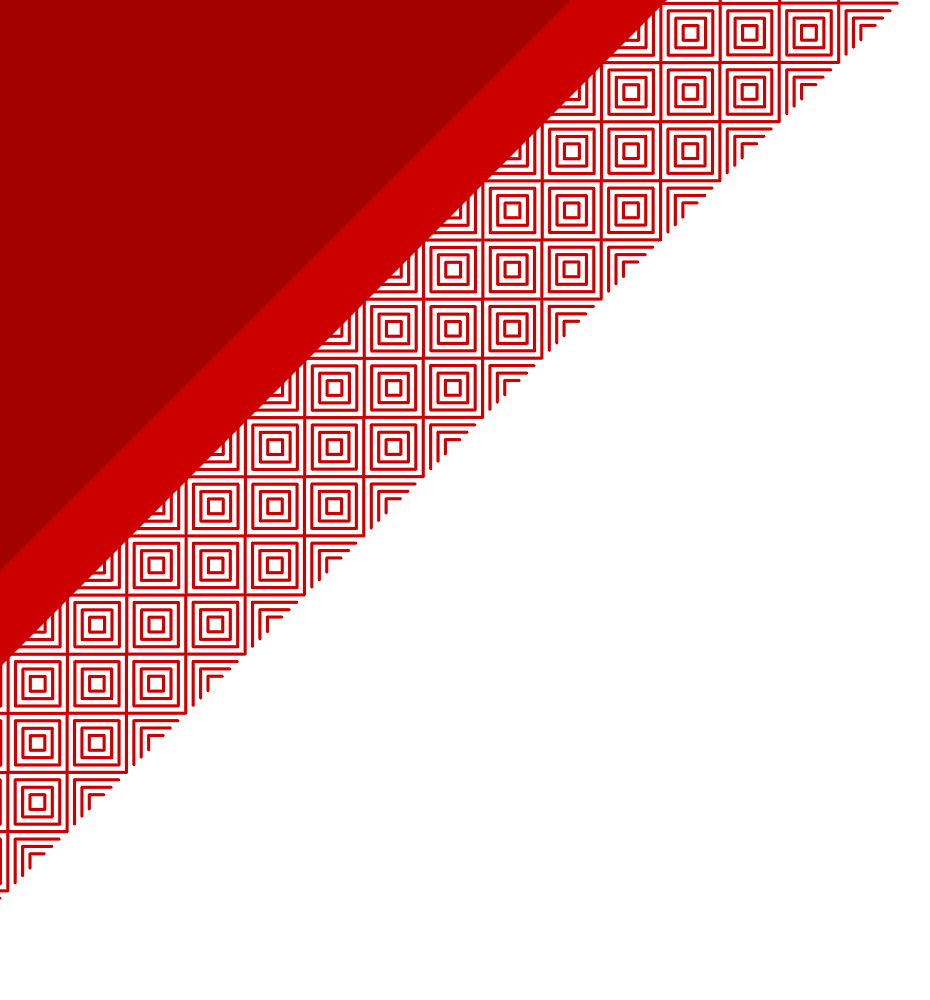
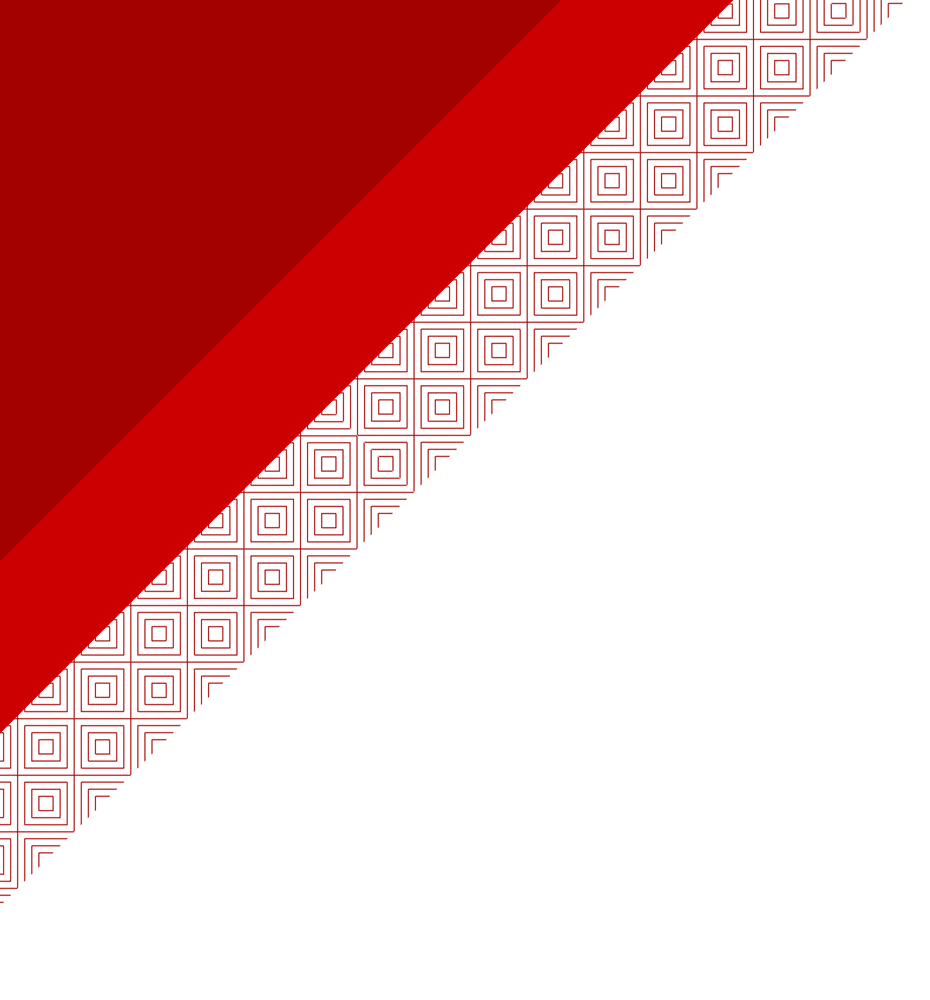
changes header and image

diff --git a/css/styles.css b/css/styles.css
@@ -10843,7 +10843,7 @@ form .togglebutton label {
 }
 form input[type="text"],
 form input[type="number"] {
-  border-bottom-color: rgba(0, 0, 0, 0.12) !important;
+  border-bottom-color: rgba(0, 0, 0, 0.2) !important;
 }
 .loader {
   background: rgba(0, 0, 0, 0.5);
@@ -10860,6 +10860,7 @@ body {
   margin-top: 76px;
   font-weight: 400;
   color: rgba(0, 0, 0, 0.87);
+  background: #fbf9f5;
 }
 body.welcome {
   text-align: center;
@@ -10965,57 +10966,65 @@ h5 {
   margin: 0 16px;
   padding-bottom: 40px;
 }
-.appheader {
+/*
+.appheader{
   margin: -20px -16px 0 -16px;
   padding: 19px 16px 0 72px;
   min-height: 185px;
   position: relative;
   background: url(../imgs/location_pointer.png) no-repeat 16px 100px;
   background-size: 40px 55px;
-  border-bottom: 1px solid #cc0000;
+  border-bottom: 1px solid @brand-primary;
+  .distance{
+    margin: 0 0 0 0;
+    font-size: 112px;
+    height: 112px;
+//    background: red;
+//    padding-top: 19px;
+    span{
+      font-size: 34px;
+    }
+  }
+  .location{
+    margin: 0px 0 0 0;
+    font-size: 24px;
+    height: 24px;
+    color: @gray-subtitle;
+    font-weight: @font-weight-regular;
+//    background: yellow;
+  }
+
 }
-.appheader .distance {
-  margin: 0 0 0 0;
-  font-size: 112px;
-  height: 112px;
+
+
+.map{
+    position: absolute;
+    top: 0;
+    left: 0;
+    right: 0;
+    bottom: 0;  
+    z-index: -2;
+    iframe{
+      width: 100%;
+      height: 100%;
+    }
+    background: url(../imgs/map.png) no-repeat 0 0;
+    background-size: cover;
 }
-.appheader .distance span {
-  font-size: 34px;
-}
-.appheader .location {
-  margin: 0px 0 0 0;
-  font-size: 24px;
-  height: 24px;
-  color: rgba(0, 0, 0, 0.54);
-  font-weight: 400;
-}
-.map {
-  position: absolute;
-  top: 0;
-  left: 0;
-  right: 0;
-  bottom: 0;
-  z-index: -2;
-  background: url(../imgs/map.png) no-repeat 0 0;
-  background-size: cover;
-}
-.map iframe {
-  width: 100%;
-  height: 100%;
-}
+*/
 .activity-log {
   position: relative;
   margin: 20px 0;
 }
 .activity-log:before {
   content: ".";
-  background: rgba(0, 0, 0, 0.12);
+  background: rgba(0, 0, 0, 0.2);
   position: absolute;
   left: 20px;
   width: 1px;
-  top: 25px;
+  top: 132px;
   bottom: 65px;
-  z-index: -1;
+  z-index: 3;
   text-indent: -999999px;
 }
 .log-entry {
@@ -11039,6 +11048,8 @@ h5 {
   border-radius: 22px;
   border: 2px solid #fff;
   margin-left: -2px;
+  z-index: 4;
+  position: relative;
 }
 .log-entry .log-entry-desc {
   margin-left: 56px;
@@ -11051,6 +11062,54 @@ h5 {
 .log-entry .log-entry-desc p {
   color: rgba(0, 0, 0, 0.54);
   margin: 0;
+}
+.log-entry.header {
+  background: url(../imgs/header-bg.png) no-repeat center top;
+  background-size: cover;
+  margin: -20px -16px 20px -16px;
+  padding: 90px 16px 16px 16px;
+  color: #ffffff;
+  position: relative;
+}
+.log-entry.header .entry-title {
+  line-height: 44px;
+  font-size: 24px;
+}
+.log-entry.header .log-entry-icon {
+  border: none;
+  margin-left: 0;
+  border-radius: 20px;
+  width: 40px;
+  background: #ffffff;
+  color: #cc0000;
+}
+.log-entry.header:before {
+  background: url(../imgs/header-pattern.png) no-repeat left top;
+  background-size: 300px 300px;
+  content: ".";
+  text-indent: -9999px;
+  position: absolute;
+  top: 0;
+  left: 0;
+  right: 0;
+  bottom: 0;
+  z-index: 1;
+  width: 100%;
+  height: 150px;
+}
+.log-entry.header:after {
+  background: url(../imgs/header-pattern.png) no-repeat right bottom;
+  background-size: 300px 300px;
+  content: ".";
+  text-indent: -9999px;
+  position: absolute;
+  top: 0;
+  left: 0;
+  right: 0;
+  bottom: 0;
+  z-index: 1;
+  width: 100%;
+  height: 155px;
 }
 .navigation-drawer {
   background: #fff;

diff --git a/less/styles.less b/less/styles.less
@@ -85,7 +85,7 @@
 @primary: @primary-color;
 
 
-@gray-divider:                  rgba(0,0,0,.12);//12
+@gray-divider:                  rgba(0,0,0,.2);//12
 @gray-subtitle:                 rgba(0,0,0,.54);//54
 @gray-text:                     rgba(0,0,0,.87);//87
 
@@ -154,6 +154,7 @@ body{
   margin-top: 76px;
   font-weight: @font-weight-regular;
   color: @gray-text;
+  background: #fbf9f5;
   &.welcome{
 //    margin: 0 16px;
     text-align: center;
@@ -219,6 +220,7 @@ strong{
 
 //App bar ==================================================================
 
+
 header{
   background: @primary-color;
   max-height: 56px;
@@ -280,6 +282,7 @@ h5{
 
 //header ================================================================
 
+/*
 .appheader{
   margin: -20px -16px 0 -16px;
   padding: 19px 16px 0 72px;
@@ -324,7 +327,7 @@ h5{
     background: url(../imgs/map.png) no-repeat 0 0;
     background-size: cover;
 }
-
+*/
 
 //activity-log ==================================================================
 
@@ -338,16 +341,18 @@ h5{
     position: absolute;
     left: 20px;
     width: 1px;
-    top: 25px;
+    top: 132px;
     bottom: 65px;
-    z-index: -1;
+    z-index: 3;
     text-indent: -999999px;
   }
 }
 
+
 .log-entry{
     padding: 16px 0 20px 0;
   .clearfix();
+    
   .log-entry-icon{
     float: left;
     width: 44px;
@@ -358,6 +363,8 @@ h5{
     border-radius: 22px;
     border: 2px solid #fff;
     margin-left: -2px;
+    z-index: 4;
+    position: relative;
   }
   
   .log-entry-desc{
@@ -372,6 +379,62 @@ h5{
       margin: 0;
     }
   }
+  
+    &.header{
+      background:url(../imgs/header-bg.png) no-repeat center top;
+      background-size: cover;
+      margin: -20px -16px 20px -16px ;
+      padding: 90px 16px 16px 16px;
+      color: @white-text;
+      position: relative;
+      .entry-title{
+//        background: aqua;
+        line-height: 44px; 
+        font-size: 24px;
+      }
+  .log-entry-icon{
+    border: none;
+    margin-left: 0;
+    border-radius: 20px;
+    width: 40px;
+    background: @white-text;
+    color: @primary-color;
+    }
+  &:before{
+    background: url(../imgs/header-pattern.png) no-repeat left top;
+    background-size: 300px 300px;
+    content: ".";
+    text-indent: -9999px;
+    position: absolute;    
+    top: 0;
+    left: 0;
+    right: 0;
+    bottom: 0;
+    z-index: 1;
+    width: 100%;
+    height: 150px;
+  }
+
+  &:after{
+    background:   url(../imgs/header-pattern.png) no-repeat right bottom;
+    background-size: 300px 300px;
+    content: ".";
+    text-indent: -9999px;
+    position: absolute;    
+    top: 0;
+    left: 0;
+    right: 0;
+    bottom: 0;
+    z-index: 1;
+    width: 100%;
+    height: 155px;
+  }
+
+      
+      
+    }
+  
+  
   
 }
 

diff --git a/activity-log.html b/activity-log.html
@@ -25,11 +25,11 @@
       
       <ul class="list-inline">
         <li><a href="settings.html"><i class="fa fa-cog fa-lg"></i></a>
-        <li><a href="logout.html"><i class="fa fa-sign-out"></i></a>
+      <!--  <li><a href="logout.html"><i class="fa fa-sign-out"></i></a> -->
       </ul>
 
       <h1 class="title main-title">
-        Red Hat Summit
+        Red Hat Keynote
       </h1>
     
     </header>
@@ -37,16 +37,15 @@
 
     <div class="content">
       
+
+<!--
       <div class="appheader">
         
         <div class="map">
-          <!-- here goes map code 
-<iframe src="https://www.google.com/maps/embed?pb=!1m14!1m8!1m3!1d184.2983359007917!2d-71.0841856686478!3d42.34735485737402!3m2!1i1024!2i768!4f13.1!3m3!1m2!1s0x89e37a0febee848b%3A0xbce6f9a63000697b!2sJohn+B.+Hynes+Veterans+Memorial+Convention+Center!5e0!3m2!1sen!2s!4v1423835726263" frameborder="0" style="border:0"></iframe>
--->
         </div>  
         
         <div class="main-title">
-<!--          <img src="imgs/location_pointer.png" alt="location_pointer">-->
+          <img src="imgs/location_pointer.png" alt="location_pointer">
             <h2 class="distance">
               32<span>ft</span>
             </h2>
@@ -56,9 +55,25 @@
                     
         </div>
       </div>
+-->
+
+
 
             
       <section class="activity-log">
+
+        <article class="log-entry header">
+          <div class="log-entry-icon">
+            <i class="fa fa-user fa-lg"></i>
+          </div><!-- log-entry-icon -->          
+          <div class="log-entry-desc">
+            <h3 class="entry-title">
+              UserName
+            </h3>
+          </div><!-- log-entry-desc -->
+        </article><!-- log-entry -->
+
+
 
         <article class="log-entry">
           <div class="log-entry-icon">
